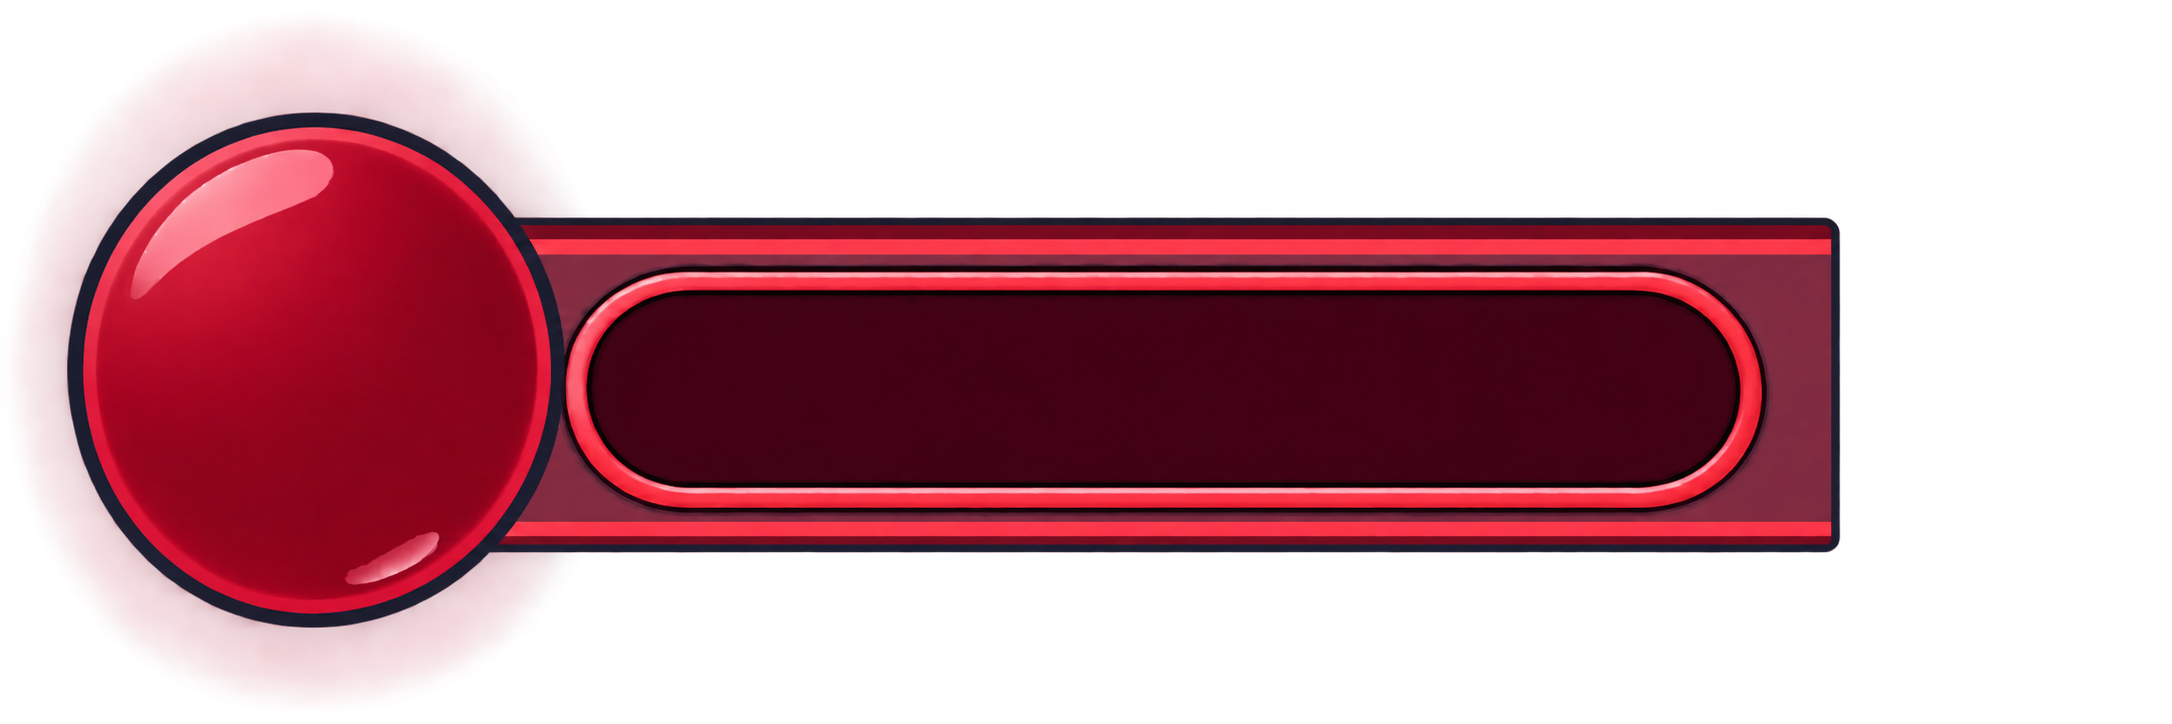
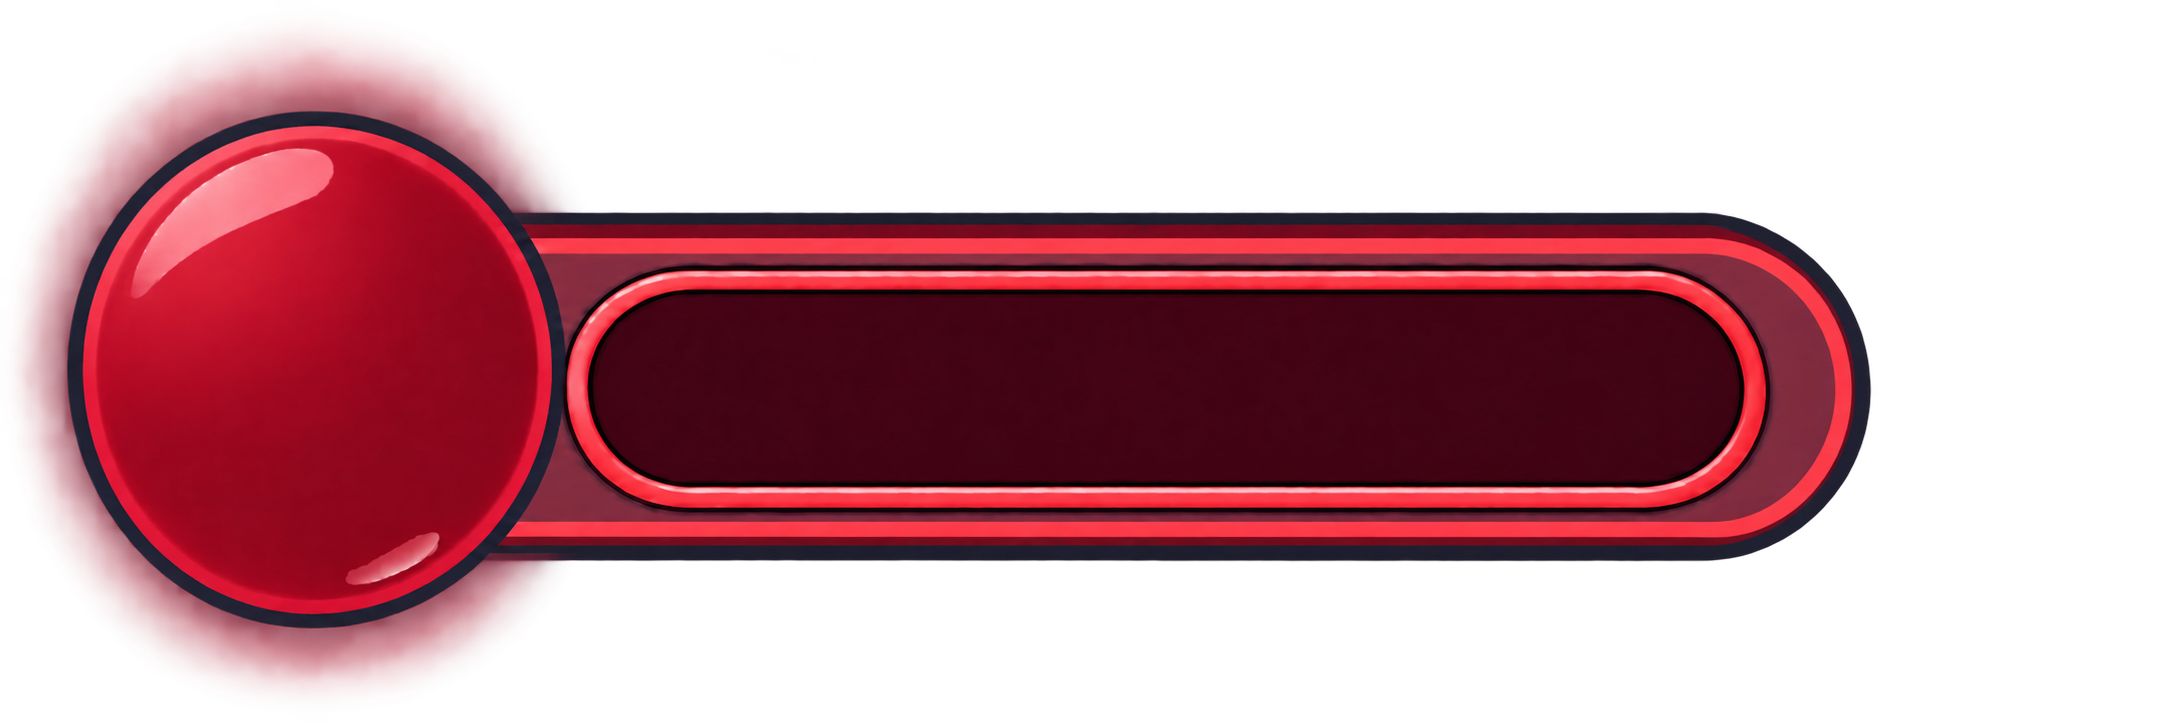
Tropas: marcos propios de Tulio y Ailin y barras de nivel cerradas por la derecha
Claude-Session: https://claude.ai/code/session_01JNP7QCwsBCjLSMGndzwo2W

diff --git a/docs/index.html b/docs/index.html
@@ -50,12 +50,13 @@ body.galeria #game { z-index: 31; pointer-events: none; background: transparent;
 .tc-fr { position: relative; display: block; aspect-ratio: 932 / 1390; border-radius: 10px; overflow: hidden; border: 3px solid var(--outline);
   background: repeating-conic-gradient(from 0deg at 50% 62%, color-mix(in srgb, var(--rc) 55%, #fff) 0 7deg, color-mix(in srgb, var(--rc) 75%, #fff) 7deg 14deg);
   box-shadow: inset 0 0 0 3px var(--rd), inset 0 -18px 30px -12px var(--rd); }
-.tc.marco .tc-fr { border: 0; border-radius: 0; box-shadow: none; background: center / 100% 100% no-repeat; }
+.tc.marco .tc-fr { aspect-ratio: 2 / 3; border: 0; border-radius: 0; box-shadow: none; background: center / 100% 100% no-repeat; overflow: visible; }
+.tc.marco .tc-bar { margin-top: -5%; }
 .tc-nm { position: absolute; left: 6%; right: 6%; top: 5%; display: grid; place-items: center; padding: 3px 4px; border-radius: 7px; background: var(--rd); border: 2px solid var(--outline); line-height: 1.05; text-align: center; }
 .tc-nm b { font-family: var(--font-display); font-weight: 400; font-size: .82rem; text-shadow: 0 1px 0 var(--outline); }
 .tc-nm small { font-size: .58rem; opacity: .9; }
 .tc-cost { position: absolute; right: 4%; top: 24%; width: 26%; aspect-ratio: 1; display: grid; place-items: center; }
-.tc.marco .tc-cost { top: 22.5%; right: 9%; width: 20%; }
+.tc.marco .tc-cost { width: 20%; }
 .tc-cost img { position: absolute; inset: 0; width: 100%; height: 100%; object-fit: contain; filter: drop-shadow(0 1px 2px rgba(0,0,0,.4)); }
 .tc-cost b { position: relative; margin: 0 0 18% 22%; font-family: var(--font-display); font-weight: 400; font-size: .8rem; color: #fff; text-shadow: 0 0 2px var(--outline), 0 1px 0 var(--outline), 0 -1px 0 var(--outline), 1px 0 0 var(--outline), -1px 0 0 var(--outline); }
 .tc-stage { position: absolute; left: 12%; width: 76%; top: 36%; height: 52%; }
@@ -7905,17 +7906,23 @@ window.__B = () => B; window.__skin = () => CASTLE_SKIN.blue; window.__skinP = (
    en medio es la de verdad, en reposo y con su animación, dibujada por una segunda escena de Phaser sobre el lienzo del
    juego. Mientras la pestaña de Tropas está abierta, el lienzo pasa por encima de la pantalla (sin recibir toques), la escena
    de la batalla se oculta y esta escena coloca cada unidad en el hueco de su tarjeta y la recorta a la zona visible. ==== */
-const MARCOS = [];   // unidades que ya tienen su marco propio (img/marcos/<unidad>.png); las demás llevan el marco provisional
+// marcos propios de cada unidad (img/marcos/<unidad>.png, 2:3, con el nombre dibujado y el hueco vacío). Por marco: el hueco
+// donde va la unidad [izquierda, arriba, ancho, alto] y el sitio del coste [derecha, arriba], en % de la tarjeta. Las que no
+// tienen marco llevan el provisional, con rayos del color de su rareza
+const MARCOS = {
+  legionario: { st: [16, 44, 68, 40], cost: [17, 42] },
+  arquera: { st: [20, 22, 60, 54], cost: [19, 13.5] },
+};
 const BARRA_RAR = { comun: 'comun', poco: 'poco', rara: 'rara', epica: 'epica', legendaria: 'legendaria', ascendida: 'ascendida' };
 const GAL = { on: false, sc: null, u: new Map() };
 function nombreEpiteto(k) { const n = NAMES[k] || LABEL[k] || k, i = n.indexOf(', '); return i < 0 ? [n, ''] : [n.slice(0, i), n.slice(i + 2)]; }
 function tarjetaHtml(k) {
-  const has = owned().includes(k), rar = RARITY[k] || 'comun', [nm, ep] = nombreEpiteto(k), marco = MARCOS.includes(k);
+  const has = owned().includes(k), rar = RARITY[k] || 'comun', [nm, ep] = nombreEpiteto(k), marco = MARCOS[k];
   const c = has ? rkCoste(k) : null, cp = has ? copiasOf(k) : 0, lv = has ? lvOf(k) : 1, r = has ? rangoOf(k) : 0;
   return '<button type="button" class="tc ' + rar + (has ? '' : ' lock') + (marco ? ' marco' : '') + (has && puedeRango(k) ? ' up' : '') + '" data-k="' + k + '" aria-label="' + (NAMES[k] || k) + (has ? ', nivel ' + lv + ', rango ' + RANGOS[r] : ', bloqueada') + '">'
     + '<span class="tc-fr"' + (marco ? ' style="background-image:url(img/marcos/' + k + '.png)"' : '') + '>'
     + (marco ? '' : '<span class="tc-nm"><b>' + (has ? nm : '¿?') + '</b>' + (has && ep ? '<small>' + ep + '</small>' : '') + '</span>')
-    + '<span class="tc-cost"><img src="img/tarjetas/coste.png" alt=""><b>' + COST[k] + '</b></span><span class="tc-stage"></span></span>'
+    + '<span class="tc-cost"' + (marco ? ' style="right:' + marco.cost[0] + '%;top:' + marco.cost[1] + '%"' : '') + '><img src="img/tarjetas/coste.png" alt=""><b>' + COST[k] + '</b></span><span class="tc-stage"' + (marco ? ' style="left:' + marco.st[0] + '%;top:' + marco.st[1] + '%;width:' + marco.st[2] + '%;height:' + marco.st[3] + '%"' : '') + '></span></span>'
     + '<span class="tc-bar" style="background-image:url(img/tarjetas/barra_' + (BARRA_RAR[rar] || 'comun') + '.png)"><b class="tc-lv">' + (has ? lv : '?') + '</b>'
     + '<span class="tc-track"><i style="width:' + (has ? (c ? Math.min(100, cp / c.copias * 100) : 100) : 0) + '%"></i><b>' + (has ? (c ? cp + '/' + c.copias : 'Máx.') : '') + '</b></span>'
     + (has ? sello(r, 'tc-rk') : '') + '</span></button>';

diff --git a/prototipos/batalla/galeria.js b/prototipos/batalla/galeria.js
@@ -3,17 +3,23 @@
    en medio es la de verdad, en reposo y con su animación, dibujada por una segunda escena de Phaser sobre el lienzo del
    juego. Mientras la pestaña de Tropas está abierta, el lienzo pasa por encima de la pantalla (sin recibir toques), la escena
    de la batalla se oculta y esta escena coloca cada unidad en el hueco de su tarjeta y la recorta a la zona visible. ==== */
-const MARCOS = [];   // unidades que ya tienen su marco propio (img/marcos/<unidad>.png); las demás llevan el marco provisional
+// marcos propios de cada unidad (img/marcos/<unidad>.png, 2:3, con el nombre dibujado y el hueco vacío). Por marco: el hueco
+// donde va la unidad [izquierda, arriba, ancho, alto] y el sitio del coste [derecha, arriba], en % de la tarjeta. Las que no
+// tienen marco llevan el provisional, con rayos del color de su rareza
+const MARCOS = {
+  legionario: { st: [16, 44, 68, 40], cost: [17, 42] },
+  arquera: { st: [20, 22, 60, 54], cost: [19, 13.5] },
+};
 const BARRA_RAR = { comun: 'comun', poco: 'poco', rara: 'rara', epica: 'epica', legendaria: 'legendaria', ascendida: 'ascendida' };
 const GAL = { on: false, sc: null, u: new Map() };
 function nombreEpiteto(k) { const n = NAMES[k] || LABEL[k] || k, i = n.indexOf(', '); return i < 0 ? [n, ''] : [n.slice(0, i), n.slice(i + 2)]; }
 function tarjetaHtml(k) {
-  const has = owned().includes(k), rar = RARITY[k] || 'comun', [nm, ep] = nombreEpiteto(k), marco = MARCOS.includes(k);
+  const has = owned().includes(k), rar = RARITY[k] || 'comun', [nm, ep] = nombreEpiteto(k), marco = MARCOS[k];
   const c = has ? rkCoste(k) : null, cp = has ? copiasOf(k) : 0, lv = has ? lvOf(k) : 1, r = has ? rangoOf(k) : 0;
   return '<button type="button" class="tc ' + rar + (has ? '' : ' lock') + (marco ? ' marco' : '') + (has && puedeRango(k) ? ' up' : '') + '" data-k="' + k + '" aria-label="' + (NAMES[k] || k) + (has ? ', nivel ' + lv + ', rango ' + RANGOS[r] : ', bloqueada') + '">'
     + '<span class="tc-fr"' + (marco ? ' style="background-image:url(img/marcos/' + k + '.png)"' : '') + '>'
     + (marco ? '' : '<span class="tc-nm"><b>' + (has ? nm : '¿?') + '</b>' + (has && ep ? '<small>' + ep + '</small>' : '') + '</span>')
-    + '<span class="tc-cost"><img src="img/tarjetas/coste.png" alt=""><b>' + COST[k] + '</b></span><span class="tc-stage"></span></span>'
+    + '<span class="tc-cost"' + (marco ? ' style="right:' + marco.cost[0] + '%;top:' + marco.cost[1] + '%"' : '') + '><img src="img/tarjetas/coste.png" alt=""><b>' + COST[k] + '</b></span><span class="tc-stage"' + (marco ? ' style="left:' + marco.st[0] + '%;top:' + marco.st[1] + '%;width:' + marco.st[2] + '%;height:' + marco.st[3] + '%"' : '') + '></span></span>'
     + '<span class="tc-bar" style="background-image:url(img/tarjetas/barra_' + (BARRA_RAR[rar] || 'comun') + '.png)"><b class="tc-lv">' + (has ? lv : '?') + '</b>'
     + '<span class="tc-track"><i style="width:' + (has ? (c ? Math.min(100, cp / c.copias * 100) : 100) : 0) + '%"></i><b>' + (has ? (c ? cp + '/' + c.copias : 'Máx.') : '') + '</b></span>'
     + (has ? sello(r, 'tc-rk') : '') + '</span></button>';

diff --git a/prototipos/batalla/plantilla.html b/prototipos/batalla/plantilla.html
@@ -50,12 +50,13 @@ body.galeria #game { z-index: 31; pointer-events: none; background: transparent;
 .tc-fr { position: relative; display: block; aspect-ratio: 932 / 1390; border-radius: 10px; overflow: hidden; border: 3px solid var(--outline);
   background: repeating-conic-gradient(from 0deg at 50% 62%, color-mix(in srgb, var(--rc) 55%, #fff) 0 7deg, color-mix(in srgb, var(--rc) 75%, #fff) 7deg 14deg);
   box-shadow: inset 0 0 0 3px var(--rd), inset 0 -18px 30px -12px var(--rd); }
-.tc.marco .tc-fr { border: 0; border-radius: 0; box-shadow: none; background: center / 100% 100% no-repeat; }
+.tc.marco .tc-fr { aspect-ratio: 2 / 3; border: 0; border-radius: 0; box-shadow: none; background: center / 100% 100% no-repeat; overflow: visible; }
+.tc.marco .tc-bar { margin-top: -5%; }
 .tc-nm { position: absolute; left: 6%; right: 6%; top: 5%; display: grid; place-items: center; padding: 3px 4px; border-radius: 7px; background: var(--rd); border: 2px solid var(--outline); line-height: 1.05; text-align: center; }
 .tc-nm b { font-family: var(--font-display); font-weight: 400; font-size: .82rem; text-shadow: 0 1px 0 var(--outline); }
 .tc-nm small { font-size: .58rem; opacity: .9; }
 .tc-cost { position: absolute; right: 4%; top: 24%; width: 26%; aspect-ratio: 1; display: grid; place-items: center; }
-.tc.marco .tc-cost { top: 22.5%; right: 9%; width: 20%; }
+.tc.marco .tc-cost { width: 20%; }
 .tc-cost img { position: absolute; inset: 0; width: 100%; height: 100%; object-fit: contain; filter: drop-shadow(0 1px 2px rgba(0,0,0,.4)); }
 .tc-cost b { position: relative; margin: 0 0 18% 22%; font-family: var(--font-display); font-weight: 400; font-size: .8rem; color: #fff; text-shadow: 0 0 2px var(--outline), 0 1px 0 var(--outline), 0 -1px 0 var(--outline), 1px 0 0 var(--outline), -1px 0 0 var(--outline); }
 .tc-stage { position: absolute; left: 12%; width: 76%; top: 36%; height: 52%; }

diff --git a/DISENO.md b/DISENO.md
@@ -590,5 +590,6 @@ Arte en bruto en `arte/zero/`; piezas del juego en `docs/img/zero/`.
 
 - Cada unidad tiene su tarjeta: marco, nombre y epíteto, coste (muslo) y, en medio, la unidad de verdad en reposo con su animación.
 - Debajo, la barra del color de su rareza (gris común, verde poco común, azul rara, morado épica, naranja legendaria, rojo ascendida): nivel en el círculo, copias para la siguiente punta en la barra y el escudo de rango a la derecha.
-- Marcos propios: cuando una unidad tenga su marco (img/marcos/<unidad>.png, sin el personaje), se añade a `MARCOS` en galeria.js; mientras, lleva un marco provisional con rayos del color de su rareza.
+- Marcos propios (img/marcos/<unidad>.png, 2:3, con el nombre dibujado y el hueco vacío): se registran en `MARCOS` (galeria.js) con el hueco de la unidad y el sitio del coste. Ya tienen marco Tulio y Ailin; las demás llevan el provisional con rayos del color de su rareza.
+- La barra granate con dorado es solo para los héroes ascendidos a S+.
 - Técnica: las tarjetas son HTML; una segunda escena de Phaser ("galeria") dibuja las unidades sobre el lienzo, que en esta pestaña pasa por encima de la pantalla sin recibir toques, y la escena de la batalla se oculta.
